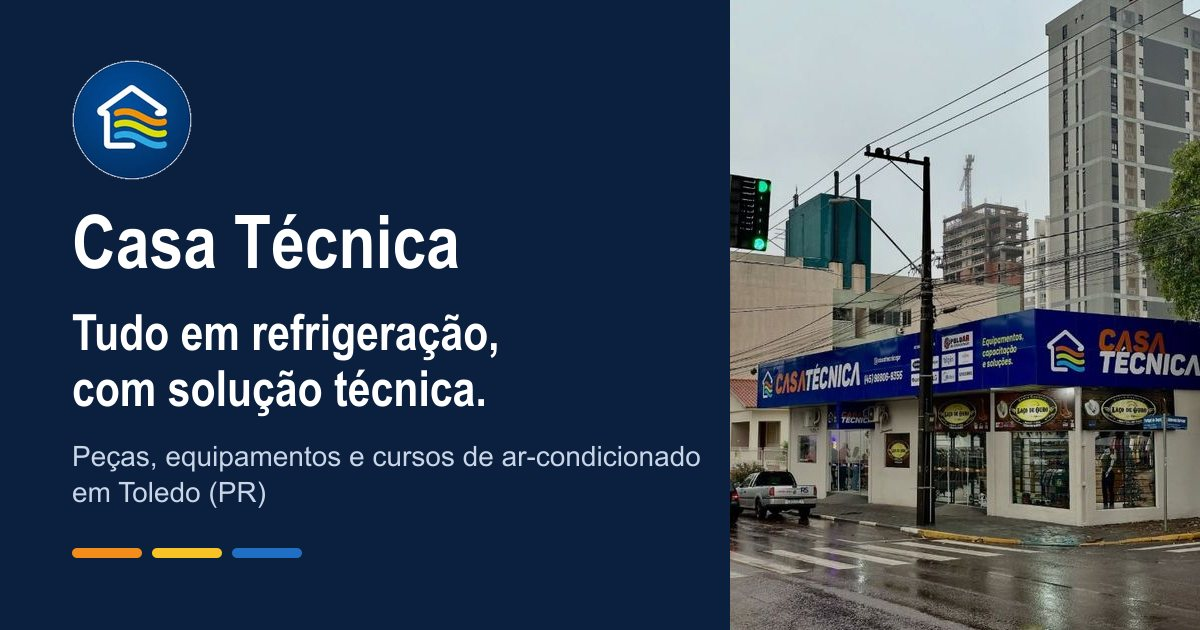
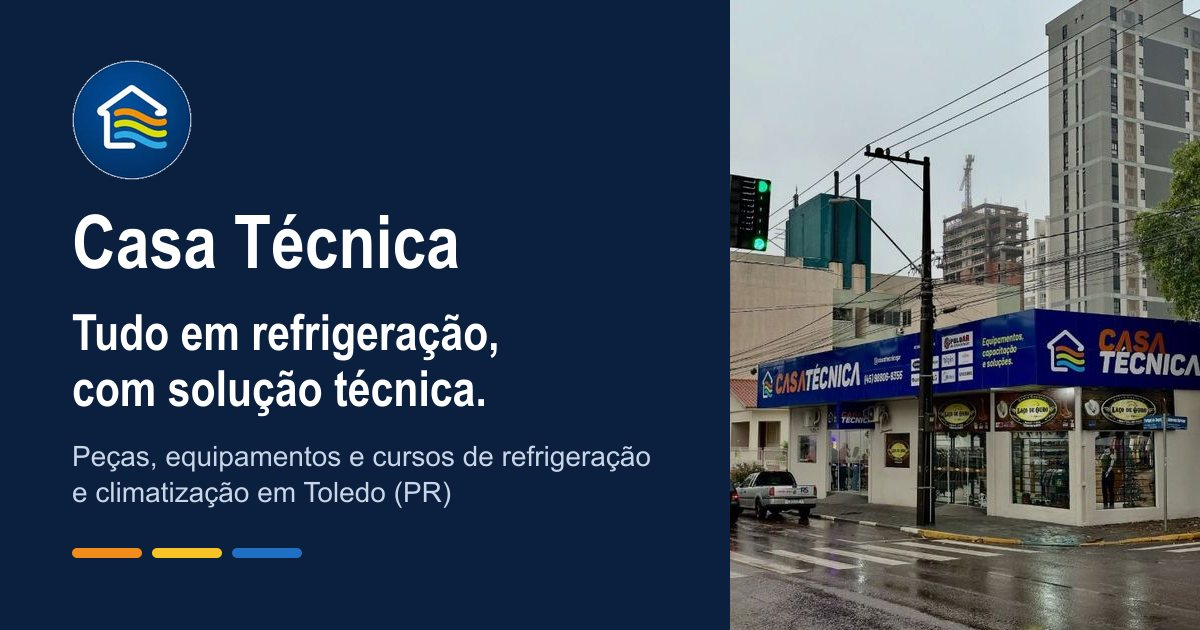
Ajusta textos de cursos, remove perguntas frequentes e inclui CNPJ
- Cursos: título "Capacitação em refrigeração e climatização" e textos
  sem limitar a ar-condicionado (início, cartão, mensagem do WhatsApp,
  título da página, descrição e imagem de compartilhamento).
- Remove a seção de perguntas frequentes e a frase sobre as cores.
- CNPJ 32.897.133/0001-07 no rodapé e nos dados estruturados.

Changed region(s): [[0.0617, 0.754, 0.37, 0.8143], [0.4008, 0.6937, 0.5858, 0.754]]

diff --git a/src/config.ts b/src/config.ts
@@ -15,7 +15,7 @@ export const EMPRESA = {
 };
 
 /** CNPJ da empresa. Deixe vazio para não aparecer no rodapé. Ex.: '00.000.000/0001-00' */
-export const cnpj = '';
+export const cnpj = '32.897.133/0001-07';
 
 /** Partes do endereço, usadas nos dados estruturados (Google). */
 export const ENDERECO_ESTRUTURADO = {
@@ -33,7 +33,7 @@ export const MENSAGENS = {
   pedidoSeparado: 'Olá! Quero deixar um pedido separado para retirar. Segue minha lista:',
   consumidor: 'Olá! Quero um orçamento de ar-condicionado / produtos de limpeza.',
   btus: 'Olá! Quero ajuda para escolher o ar-condicionado certo. O ambiente tem __ m².',
-  cursos: 'Olá! Quero saber sobre a próxima turma do curso de ar-condicionado.',
+  cursos: 'Olá! Quero saber sobre os cursos e a próxima turma.',
   geral: 'Olá! Vim pelo site da Casa Técnica.',
 };
 
